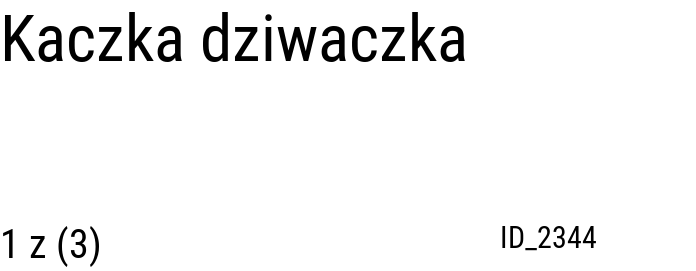
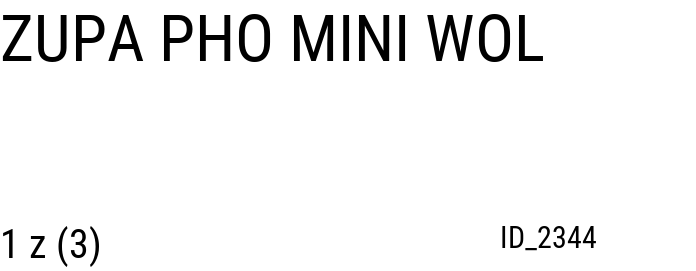
druk z okienka

Changed region(s): [[0.0, 0.0295, 0.7845, 0.2362]]

diff --git a/main.py b/main.py
@@ -19,9 +19,19 @@ server = getenv("PYMSSQL_TEST_SERVER")
 user = getenv("PYMSSQL_TEST_USERNAME")
 password = getenv("PYMSSQL_TEST_PASSWORD")
 database = getenv("PYMSSQL_TEST_DATABASE")
+port = getenv("PYMSSQL_TEST_PORT")
+charset = 'WINDOWS-1252'
+# charset = 'UTF-8'
+# charset = 'utf8'
+# charset = 'Polish_CI_AS'
+# charset = "ISO-8859-1"
+# charset = "LATIN1"
+# charset='iso-8859-1'
+# conn = pymssql.connect(server, user, password, database)
 
-conn = pymssql.connect(server, user, password, database)
-
+# https://www.pymssql.org/ref/pymssql.html
+conn = pymssql.connect(server=server, user=user, password=password, database=database, timeout=0, login_timeout=60, charset=charset, as_dict=True, host='', appname=None, port=port)
+print(pymssql.version_info())
 
 # można też tak, ale sensowniej jest jak wyżej z pliku env
 # conn = pymssql.connect(
@@ -31,13 +41,17 @@ conn = pymssql.connect(server, user, password, database)
 #     database='GastroAdong'
 # )
 
+products = list()
+
+
 def puknijDoBazy():
     cursor = conn.cursor(as_dict=True)
+
     plu_end = 300
     poziom_cenowy_id = '745B467C-2477-416E-9E40-B313B3E6D792'
 
     query = f"""SELECT 
-        TOP 2 
+        TOP 12 
             t.NumerPLU as PLU, 
             t.NazwaTowaru, 
             t.ID, c.Cena as 'CenaLokal' 
@@ -48,11 +62,24 @@ def puknijDoBazy():
             t.NumerPLU<{plu_end}
     """
     cursor.execute(query)
+
     for row in cursor:
+        # name = row['NazwaTowaru'].encode('UTF-8', "ignore")
         print(f"ID:{row['ID']}, Nazwa:{row['NazwaTowaru']} PLU:{row['PLU']} Cena w lokalu:{row['CenaLokal']}")
+        products.append(row)
 
     # wywolajProcedure(poziom_cenowy_id)
     conn.close()
+
+
+
+
+def drukujEtykiety():
+    print('drukuje etykiety')
+    print(products)
+    for product in products:
+        result_print = print_label(product['NazwaTowaru'], '1 z (3)', 'ID_2344', 'L_332')
+        print(result_print)
 
 
 def wywolajProcedure(param1):
@@ -95,7 +122,6 @@ def pokazToast2():
     toast.show()
 
 
-
 def okienko():
     customtkinter.set_appearance_mode('dark')
     customtkinter.set_default_color_theme('dark-blue')
@@ -110,15 +136,18 @@ def okienko():
     # button.pack(pady=12, padx=10)
     button2 = customtkinter.CTkButton(master=frame, text="Pokaż tost 2 windows", command=pokazToast2)
     button2.pack(pady=12, padx=10)
+
+    button3 = customtkinter.CTkButton(master=frame, text="Drukuj etykiety", command=drukujEtykiety)
+    button3.pack(pady=12, padx=10)
+
     root.mainloop()
 
 
 if __name__ == '__main__':
-
     mojaFunkcjaWitaj('Darek')
     puknijDoBazy()
-    result_print = print_label('Kaczka dziwaczka', '1 z (3)', 'ID_2344', 'L_332')
-    print(result_print)
+    # result_print = print_label('Kaczka dziwaczka', '1 z (3)', 'ID_2344', 'L_332')
+    # print(result_print)
     # pokazToast()
     okienko()
     # app = App()
